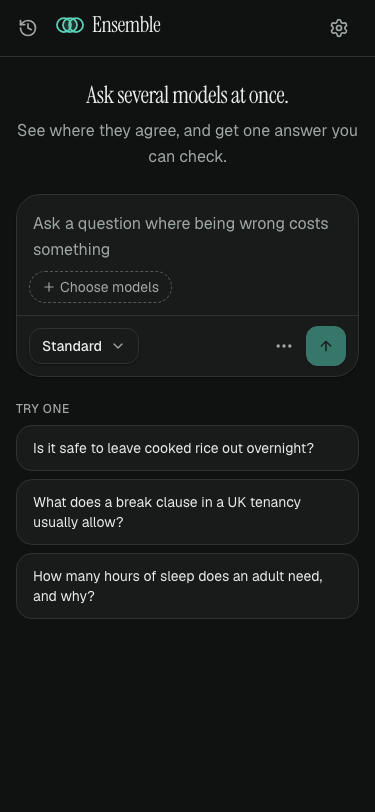
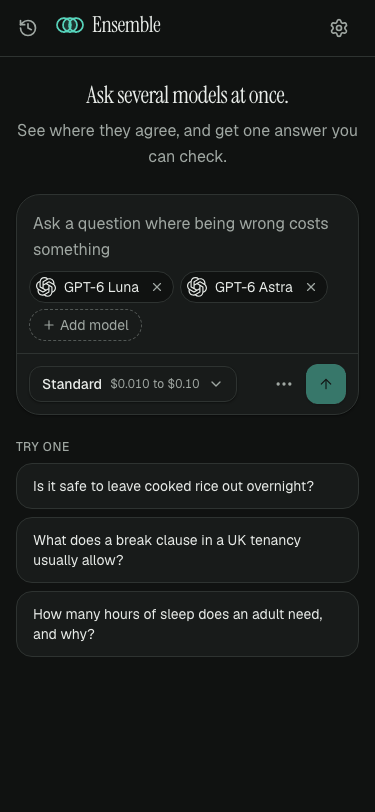
docs(app): retake the onboarding and workspace screenshots after the walkthrough fixes

diff --git a/packages/app/docs/screenshots/m4/README.md b/packages/app/docs/screenshots/m4/README.md
@@ -10,12 +10,13 @@ Captured for review of the M4 wireframes and visual refresh, at 375, 768 and 144
 | `wf-running` | Wireframes `/workspace?state=running` | Answers streaming |
 | `wf-method` | Wireframes `/workspace?menu=method` | Consensus method dropdown with calls and cost |
 | `wf-settings` | Wireframes `/workspace?sheet=settings` | Settings sheet |
-| `app-empty` | App `/workspace`, mock mode, no key yet | First visit: heading, composer, setup card |
-| `app-ready` | Same, after adding keys | Example questions under the composer |
+| `app-empty` | App `/workspace`, mock mode, onboarding skipped, no key, a question typed | Heading, composer with the hint that says why Ask is disabled, setup card |
+| `app-ready` | Same, after Start in onboarding with an OpenAI key | The starting ensemble already in the composer, the shortcut beside the models, example questions |
 | `app-models` | Same, picker open | Inline model picker, models of providers with a working key |
 | `app-method` | Same, method menu open | Calls and cost of each method before asking, summarizer choice |
 | `app-running` | Same, about a second after asking | Answers streaming. Below 1024 px one status row stands in for the agreement and consensus cards until every answer is in |
 | `app-done` | Same, finished run | Agreement score and pairs, consensus with cost, answers |
+| `app-ready-fr` | Same, a French browser on a first visit, 1440 px only | French composer: the cost label, shortcut and Ask fit on their rows |
 | `app-settings` | Same, settings open (`/config` lands here) | Keys, endpoints, embeddings, appearance, data |
 | `cl-empty` | Storybook `Organisms/AppShell/WorkspaceEmpty` | First visit: composer alone |
 | `cl-running` | Storybook `Organisms/AppShell/WorkspaceRunning` | Answers streaming, agreement and consensus waiting |
@@ -26,6 +27,7 @@ Captured for review of the M4 wireframes and visual refresh, at 375, 768 and 144
 | `landing` | App `/`, mock mode | Landing page with the recorded example run |
 | `features` | App `/features` | Features page, top of the page |
 | `about` | App `/about` | About page, top of the page |
+| `onboarding-start` | App `/workspace?start=keys`, first visit, system theme | Onboarding sheet before a key is typed, with the link to the provider's key page |
 | `onboarding-key` | App `/workspace`, first visit, a working key typed | Onboarding sheet, own key path, key checked |
 | `onboarding-key-invalid` | Same, a key the provider rejects | Onboarding sheet with the key error, Start disabled |
 | `onboarding-local` | Same, local models chosen | Onboarding sheet, local path, no server found (mock mode does not detect Ollama) |
@@ -36,3 +38,5 @@ Captured for review of the M4 wireframes and visual refresh, at 375, 768 and 144
 The `app-*` captures show the app's workspace wired to the store in mock mode, so answers and the consensus are placeholder text and their length is not realistic. The `cl-*` captures show the workspace components in Storybook with sample data, before the app is wired to them.
 
 The 1440 px `app-running`, `app-done`, `history`, `history-open`, `cl-running`, `cl-workspace`, `cl-method` and `cl-models` captures were retaken after the agreement card stopped stretching to the height of the consensus. The `wf-*` captures were not retaken: they come from the wireframes app, which does not use `ConsensusPanel`. Below 1024 px the two cards stack, so the 375 and 768 px captures did not change.
+
+The `onboarding-start`, `onboarding-key`, `onboarding-key-invalid`, `app-empty`, `app-ready`, `app-ready-fr` and `app-done` captures were retaken after the first-time user walkthrough: Start now chooses a starting ensemble, the composer says why Ask is disabled, the shortcut moved beside the models, onboarding links to each provider's key page, and a first visit follows the system theme and browser language. They come from the visitor's own flow (landing link, onboarding, Start, ask) rather than seeded storage.
